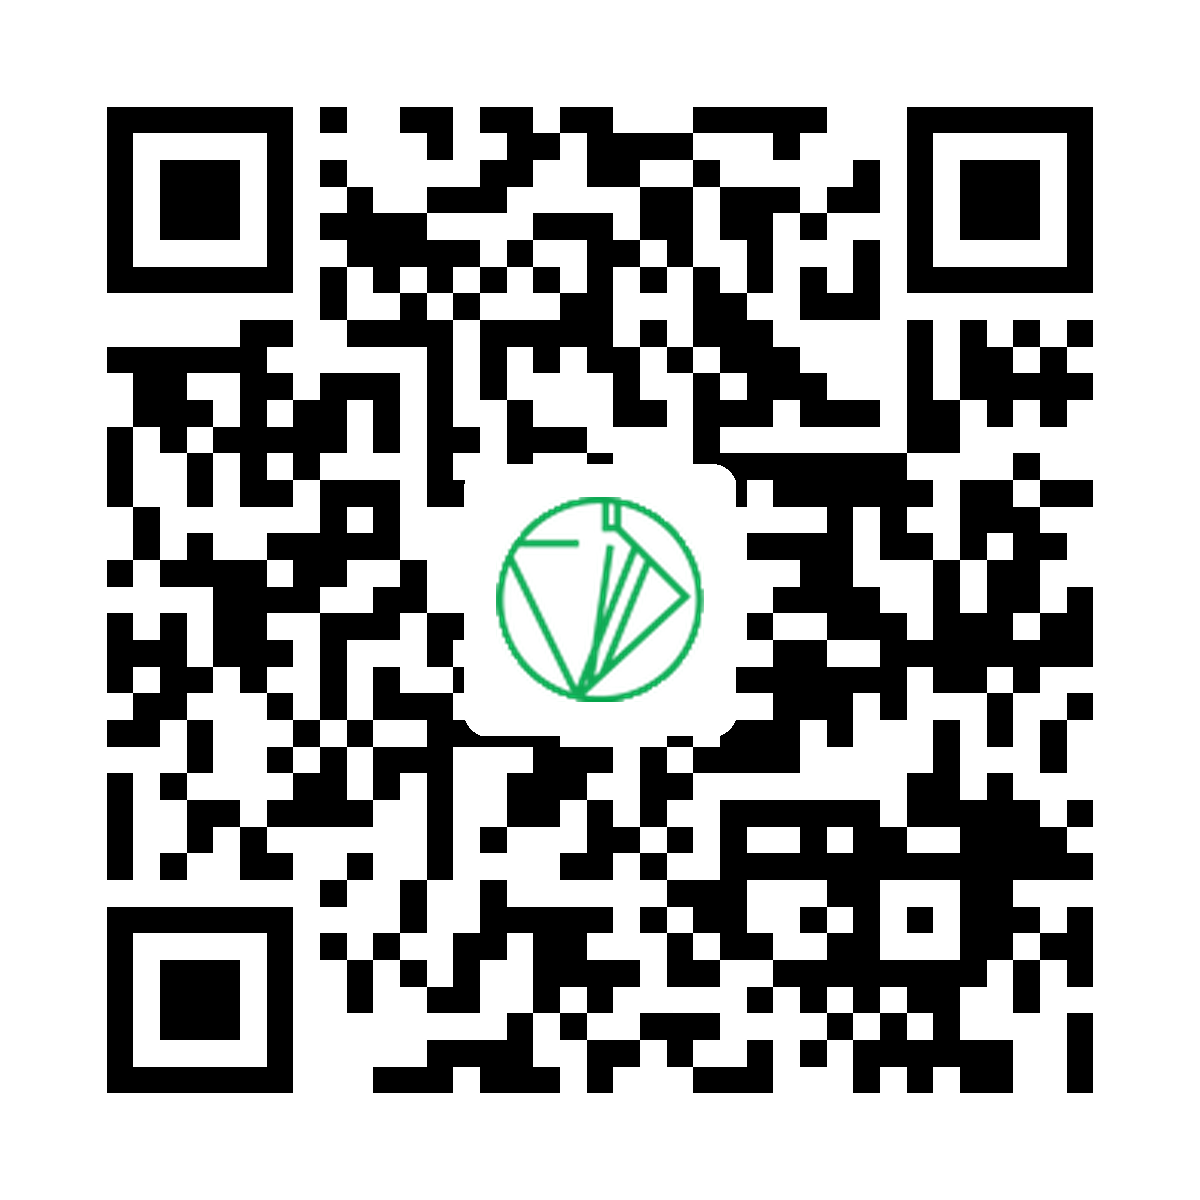
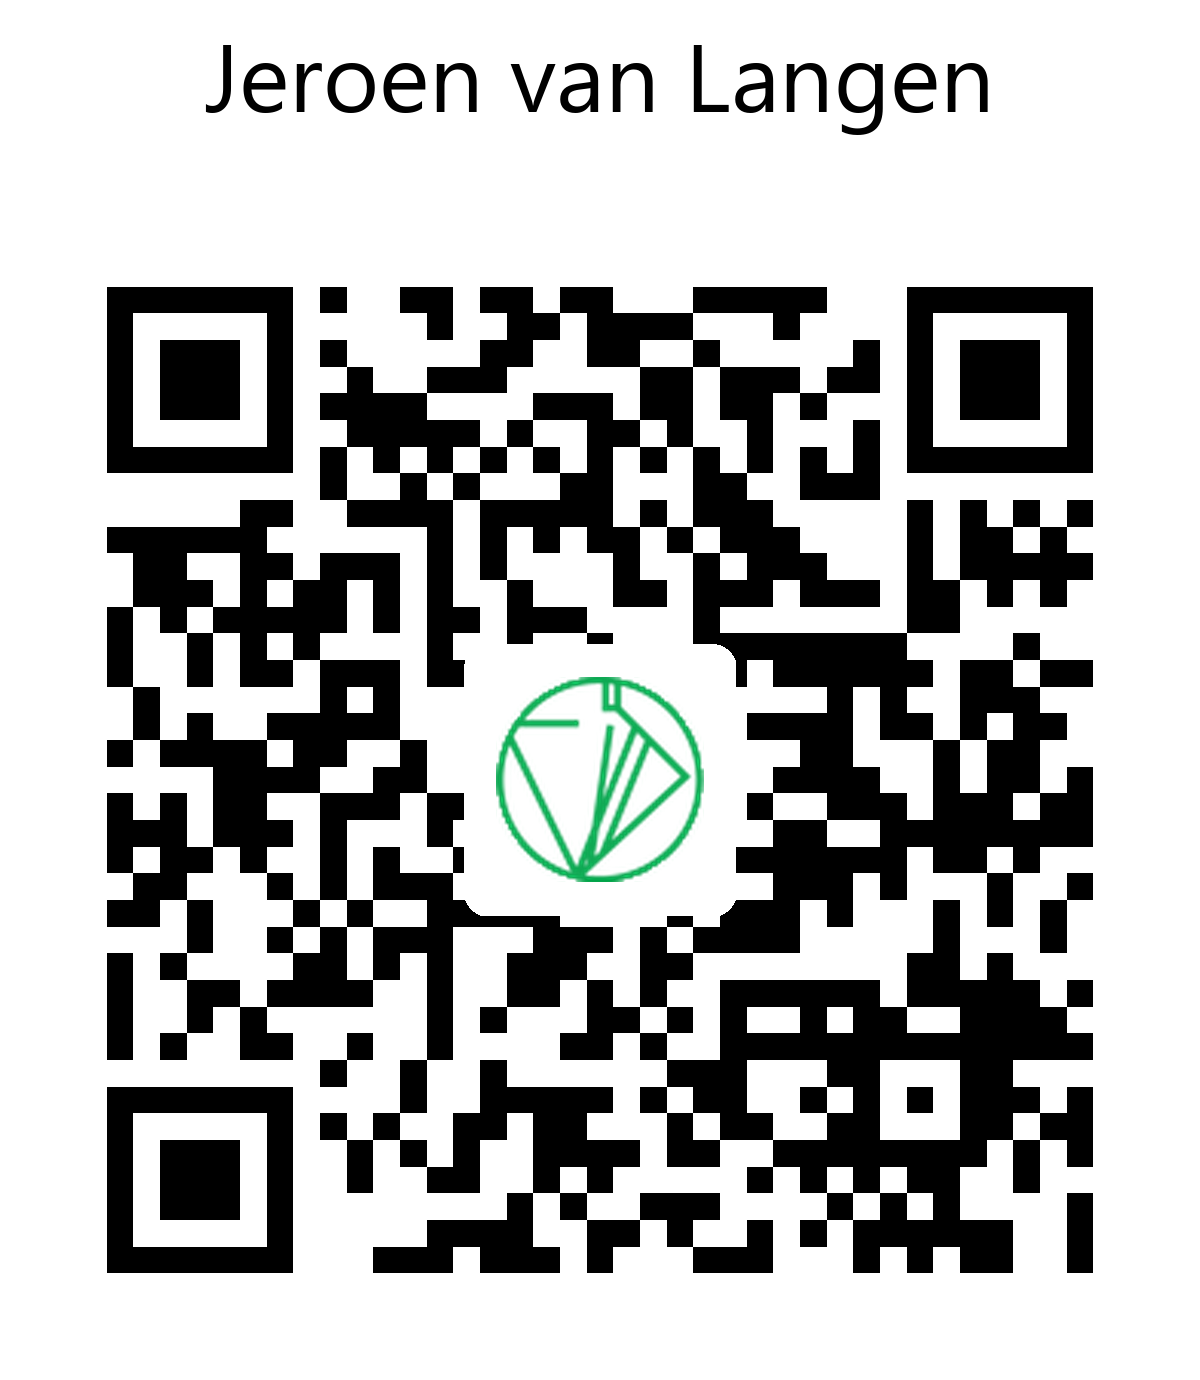
working on app on mobile

diff --git a/docs/pwr/sw.js b/docs/pwr/sw.js
@@ -1,4 +1,4 @@
-const CACHE_NAME = "pwr-contact-v2";
+const CACHE_NAME = "pwr-contact-v3";
 
 const FILES = [
   "/pwr/",

diff --git a/generate_vcard_qr.py b/generate_vcard_qr.py
@@ -12,9 +12,9 @@ VCARD_URL_QR_PATH = ROOT / "docs" / "pwr" / "vcard-url.png"
 VCARD_URL = "https://vanlangen.org/pwr/pwrpack.vcf"
 
 QR_SIZE = 1200
-LABEL_HEIGHT = 150
+LABEL_HEIGHT = 180
 LABEL_PADDING = 32
-LABEL_FONT_SIZE = 64
+LABEL_FONT_SIZE = 96
 BASE_QR_SIZE = 300
 BASE_LOGO_BOX_SIZE = 68
 BASE_LOGO_PADDING = 8
@@ -103,7 +103,7 @@ def main() -> None:
     vcard_text = VCARD_PATH.read_text(encoding="utf-8").strip()
     label = next((line[3:] for line in vcard_text.splitlines() if line.startswith("FN:")), "")
     save_qr_png(vcard_text, VCARD_QR_PATH, label)
-    save_qr_png(VCARD_URL, VCARD_URL_QR_PATH)
+    save_qr_png(VCARD_URL, VCARD_URL_QR_PATH, label)
 
 
 if __name__ == "__main__":
